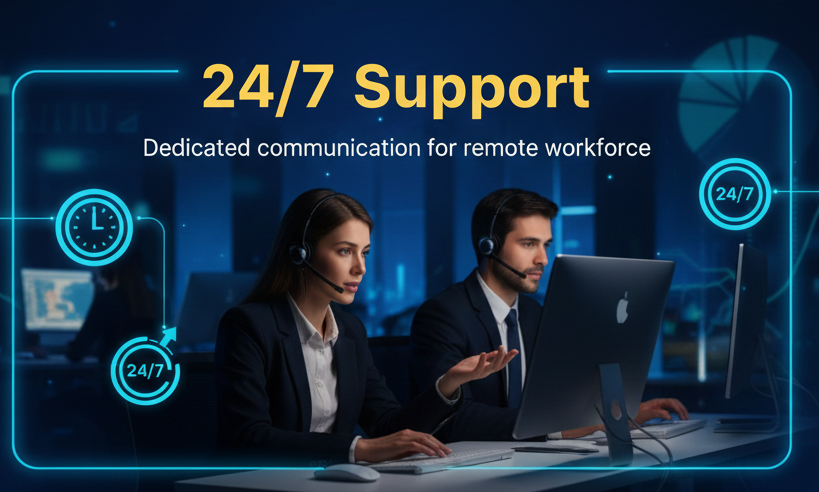
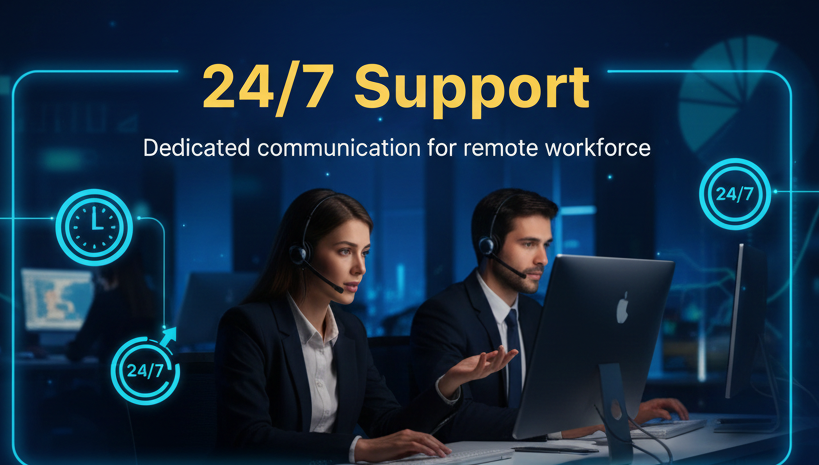
Recent Work V2

diff --git a/index.html b/index.html
@@ -239,7 +239,7 @@
        
           
             <div class="col-sm-12">
-              <h3>Recent Works</h3>
+              <h3>Why Choose Us</h3>
               <hr class="style-eight">
             </div>
           
